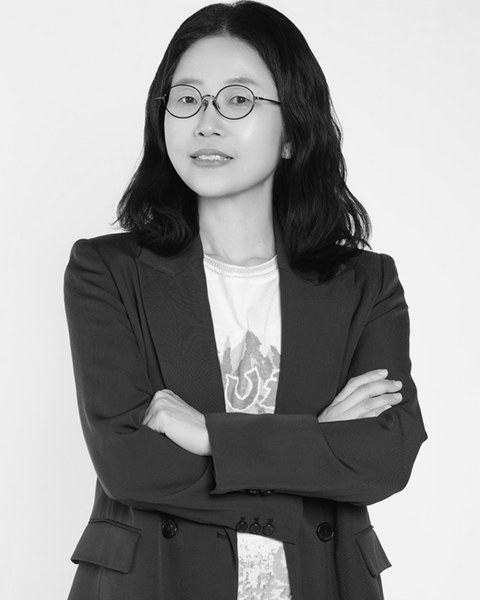
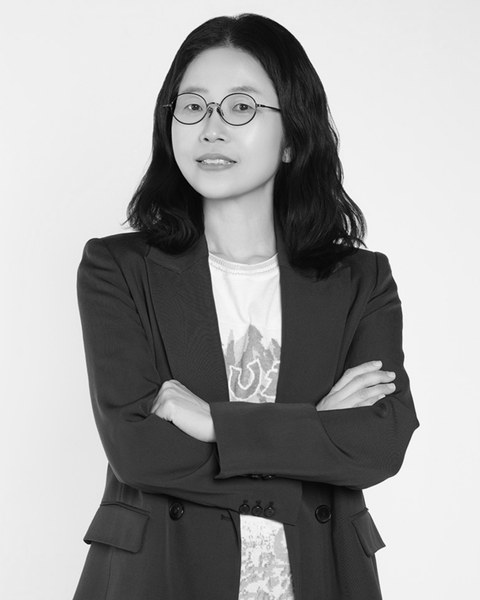
Add more headroom for 4 teachers, fix 박한미 name, reorder
- Widen the crop box (not just shift it) for 김진우/배경호/신병철/
  최윤후 so more background shows above the head without sacrificing
  the arm margin fixed last round
- Fix teacher name: 박찬미 -> 박한미 (matches her actual name/photo
  filename), move her card before 장효진
- Bump cache-busting version on the 4 re-cropped photos

diff --git a/index.html b/index.html
@@ -199,8 +199,8 @@
           <h3>디쌤</h3>
           <p class="tcard-role">원장 · 영어</p>
         </div>
-        <div class="carousel-slide tcard lightbox-trigger" data-name="김진우" data-role="부원장 · 국어" data-photo="assets/teacher-kimjinwoo.jpg?v=3">
-          <div class="tcard-photo-wrap"><img class="tcard-photo" src="assets/teacher-kimjinwoo.jpg?v=3" alt="김진우"></div>
+        <div class="carousel-slide tcard lightbox-trigger" data-name="김진우" data-role="부원장 · 국어" data-photo="assets/teacher-kimjinwoo.jpg?v=4">
+          <div class="tcard-photo-wrap"><img class="tcard-photo" src="assets/teacher-kimjinwoo.jpg?v=4" alt="김진우"></div>
           <h3>김진우</h3>
           <p class="tcard-role">부원장 · 국어</p>
         </div>
@@ -209,13 +209,13 @@
           <h3>김금단</h3>
           <p class="tcard-role">팀장 · 영어</p>
         </div>
-        <div class="carousel-slide tcard lightbox-trigger" data-name="배경호" data-role="팀장 · 수학" data-photo="assets/teacher-baekyungho.jpg?v=3">
-          <div class="tcard-photo-wrap"><img class="tcard-photo" src="assets/teacher-baekyungho.jpg?v=3" alt="배경호"></div>
+        <div class="carousel-slide tcard lightbox-trigger" data-name="배경호" data-role="팀장 · 수학" data-photo="assets/teacher-baekyungho.jpg?v=4">
+          <div class="tcard-photo-wrap"><img class="tcard-photo" src="assets/teacher-baekyungho.jpg?v=4" alt="배경호"></div>
           <h3>배경호</h3>
           <p class="tcard-role">팀장 · 수학</p>
         </div>
-        <div class="carousel-slide tcard lightbox-trigger" data-name="신병철" data-role="수학" data-photo="assets/teacher-shinbyungchul.jpg?v=3">
-          <div class="tcard-photo-wrap"><img class="tcard-photo" src="assets/teacher-shinbyungchul.jpg?v=3" alt="신병철"></div>
+        <div class="carousel-slide tcard lightbox-trigger" data-name="신병철" data-role="수학" data-photo="assets/teacher-shinbyungchul.jpg?v=4">
+          <div class="tcard-photo-wrap"><img class="tcard-photo" src="assets/teacher-shinbyungchul.jpg?v=4" alt="신병철"></div>
           <h3>신병철</h3>
           <p class="tcard-role">수학</p>
         </div>
@@ -224,8 +224,8 @@
           <h3>안소현</h3>
           <p class="tcard-role">국어</p>
         </div>
-        <div class="carousel-slide tcard lightbox-trigger" data-name="최윤후" data-role="영어" data-photo="assets/teacher-choiyoonhoo.jpg?v=3">
-          <div class="tcard-photo-wrap"><img class="tcard-photo" src="assets/teacher-choiyoonhoo.jpg?v=3" alt="최윤후"></div>
+        <div class="carousel-slide tcard lightbox-trigger" data-name="최윤후" data-role="영어" data-photo="assets/teacher-choiyoonhoo.jpg?v=4">
+          <div class="tcard-photo-wrap"><img class="tcard-photo" src="assets/teacher-choiyoonhoo.jpg?v=4" alt="최윤후"></div>
           <h3>최윤후</h3>
           <p class="tcard-role">영어</p>
         </div>
@@ -233,6 +233,11 @@
           <div class="tcard-photo-wrap"><img class="tcard-photo" src="assets/teacher-jhoyoonsung.jpg?v=3" alt="조윤성"></div>
           <h3>조윤성</h3>
           <p class="tcard-role">수학</p>
+        </div>
+        <div class="carousel-slide tcard lightbox-trigger" data-name="박한미" data-role="국어" data-photo="assets/teacher-parkhanmi.jpg">
+          <div class="tcard-photo-wrap"><img class="tcard-photo" src="assets/teacher-parkhanmi.jpg" alt="박한미"></div>
+          <h3>박한미</h3>
+          <p class="tcard-role">국어</p>
         </div>
         <div class="carousel-slide tcard lightbox-trigger" data-name="장효진" data-role="국어" data-photo="assets/teacher-jangHyojin.jpg?v=3">
           <div class="tcard-photo-wrap"><img class="tcard-photo" src="assets/teacher-jangHyojin.jpg?v=3" alt="장효진"></div>
@@ -243,11 +248,6 @@
           <div class="tcard-photo-wrap"><img class="tcard-photo" src="assets/teacher-kimjeongmin.jpg?v=3" alt="김정민"></div>
           <h3>김정민</h3>
           <p class="tcard-role">통합사회 · 한국사</p>
-        </div>
-        <div class="carousel-slide tcard lightbox-trigger" data-name="박찬미" data-role="국어" data-photo="assets/teacher-parkchanmi.jpg?v=3">
-          <div class="tcard-photo-wrap"><img class="tcard-photo" src="assets/teacher-parkchanmi.jpg?v=3" alt="박찬미"></div>
-          <h3>박찬미</h3>
-          <p class="tcard-role">국어</p>
         </div>
         <div class="carousel-slide tcard lightbox-trigger" data-name="형일우" data-role="수학">
           <div class="tcard-photo-wrap tcard-placeholder"><span class="tcard-initial">형</span></div>

diff --git a/process-teachers.js b/process-teachers.js
@@ -10,16 +10,16 @@ const OUT_W = 480, OUT_H = 600; // 4:5 portrait, consistent across all cards
 // the auto-fit step below only needs to make small adjustments.
 const photos = [
   { file: '디쌤 원장 프로필.jpg', out: 'teacher-disaem.jpg', top: 0.07, bottom: 0.88, left: 0.1635, right: 0.8115, normalize: true },
-  { file: '김진우 프로필.jpg', out: 'teacher-kimjinwoo.jpg', top: 0.04, bottom: 0.87, left: 0.09, right: 0.92 },
+  { file: '김진우 프로필.jpg', out: 'teacher-kimjinwoo.jpg', top: 0.02, bottom: 0.90, left: 0.06, right: 0.94 },
   { file: '김금단 프로필.png', out: 'teacher-kimgeumdan.jpg', top: 0.06, bottom: 0.87, left: 0.176, right: 0.824 },
-  { file: '배경호 프로필.jpg', out: 'teacher-baekyungho.jpg', top: 0.035, bottom: 0.89, left: 0.11, right: 0.92 },
-  { file: '신병철프로필.png', out: 'teacher-shinbyungchul.jpg', top: 0.045, bottom: 0.776, left: 0.08, right: 0.90 },
+  { file: '배경호 프로필.jpg', out: 'teacher-baekyungho.jpg', top: 0.015, bottom: 0.923, left: 0.08, right: 0.94 },
+  { file: '신병철프로필.png', out: 'teacher-shinbyungchul.jpg', top: 0.02, bottom: 0.804, left: 0.05, right: 0.93 },
   { file: '안소현 프로필.jpg', out: 'teacher-ansoseon.jpg', top: 0.06, bottom: 0.70, left: 0.15, right: 0.85 },
-  { file: '최윤후 프로필.jpg', out: 'teacher-choiyoonhoo.jpg', top: 0.035, bottom: 0.74, left: 0.11, right: 0.86 },
+  { file: '최윤후 프로필.jpg', out: 'teacher-choiyoonhoo.jpg', top: 0.015, bottom: 0.777, left: 0.08, right: 0.89 },
   { file: '조윤성 프로필.png', out: 'teacher-jhoyoonsung.jpg', top: 0.12, bottom: 0.76, left: 0.13, right: 0.85 },
   { file: '장효진 프로필.jpg', out: 'teacher-jangHyojin.jpg', top: 0.04, bottom: 0.75, left: 0.05, right: 0.90 },
   { file: '김정민 프로필.png', out: 'teacher-kimjeongmin.jpg', top: 0.045, bottom: 0.86, left: 0.2115, right: 0.8635 },
-  { file: '박한미 프로필.jpeg', out: 'teacher-parkchanmi.jpg', top: 0.03, bottom: 0.81, left: 0.10, right: 0.90 },
+  { file: '박한미 프로필.jpeg', out: 'teacher-parkhanmi.jpg', top: 0.03, bottom: 0.81, left: 0.10, right: 0.90 },
 ];
 
 const targetRatio = OUT_W / OUT_H; // 0.8
